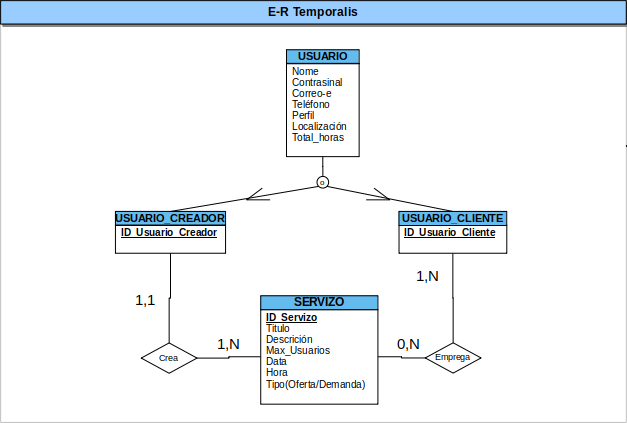
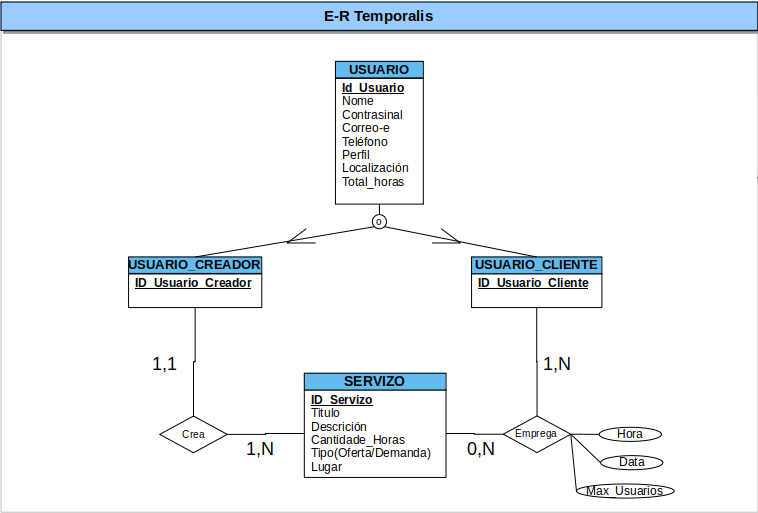
[WIP] melloras en E-R e en mockups interfaces

Changed region(s): [[0.1515, 0.0922, 0.9091, 0.9835], [0.0, 0.0, 1.0, 0.0922]]

diff --git a/doc/templates/5_deseño.md b/doc/templates/5_deseño.md
@@ -8,6 +8,9 @@
 ![](doc/img/mockups1.png)
 ![](doc/img/mockups2.png)
 ![](doc/img/mockups3.png)
+![](doc/img/mockups4.png)
+![](doc/img/mockups5.png)
+![](doc/img/mockups6.png)
 ## Diagrama de Base de Datos
 ![](doc/img/E_R_BancoTempo.png)
 ## Diagrama de compoñentes software que constitúen o produto e de despregue
